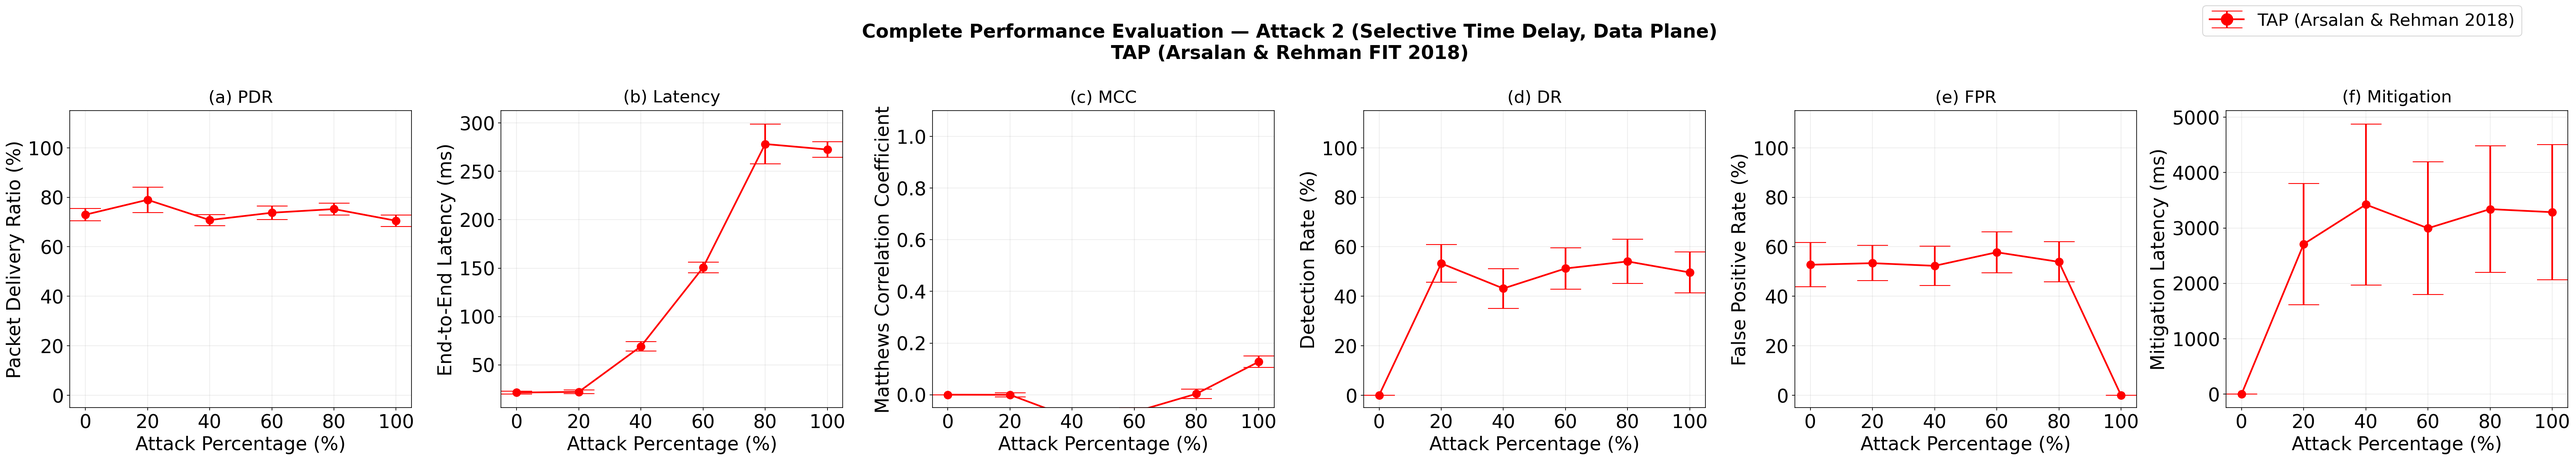
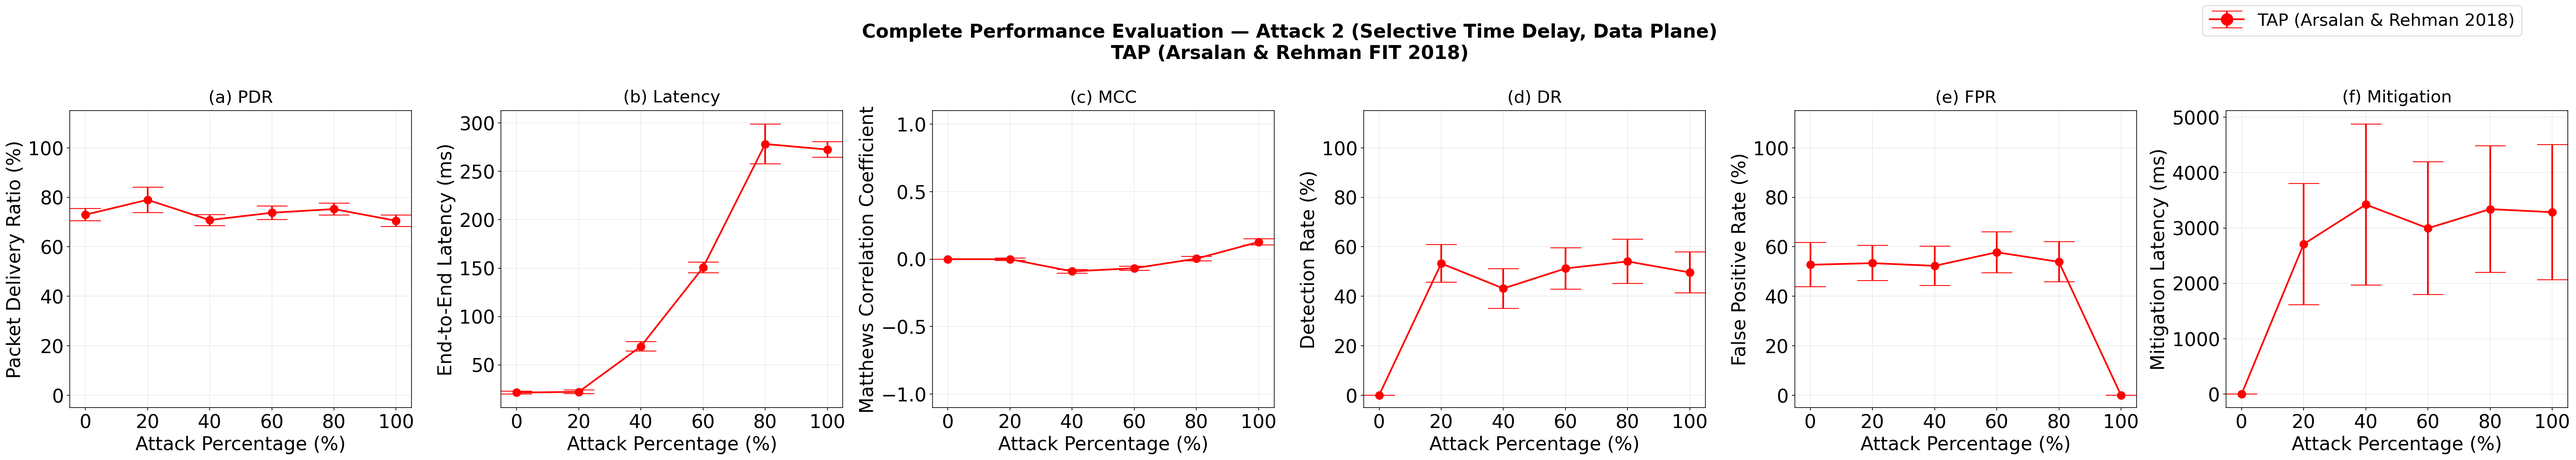
fix: figures updated

diff --git a/scripts/plot_tap_results.py b/scripts/plot_tap_results.py
@@ -220,8 +220,8 @@ def main():
         col    = COL_MCC_CUR,
         ylabel = "Matthews Correlation Coefficient",
         title  = "(b) Matthews Correlation Coefficient",
-        ylim   = [-0.05, 1.1],
-        yticks = [0.0, 0.2, 0.4, 0.6, 0.8, 1.0]
+        ylim   = [-1.1, 1.1],
+        yticks = [-1.0, -0.5, 0.0, 0.5, 1.0]
     )
 
     # Subplot (c): False Positive Rate
@@ -306,7 +306,7 @@ def main():
     metrics = [
         (COL_PDR_AVG, "Packet Delivery Ratio (%)",         "(a) PDR",         [-5, 115],  [0,20,40,60,80,100]),
         (COL_LAT_AVG, "End-to-End Latency (ms)",           "(b) Latency",     None,       None),
-        (COL_MCC_CUR, "Matthews Correlation Coefficient",  "(c) MCC",         [-0.05,1.1],[0.0,0.2,0.4,0.6,0.8,1.0]),
+        (COL_MCC_CUR, "Matthews Correlation Coefficient",  "(c) MCC",         [-1.1, 1.1], [-1.0, -0.5, 0.0, 0.5, 1.0]),
         (COL_DR_CUR,  "Detection Rate (%)",                "(d) DR",          [-5, 115],  [0,20,40,60,80,100]),
         (COL_FPR_CUR, "False Positive Rate (%)",           "(e) FPR",         [-5, 115],  [0,20,40,60,80,100]),
         (COL_MIT_CUR, "Mitigation Latency (ms)",           "(f) Mitigation",  None,       None),
